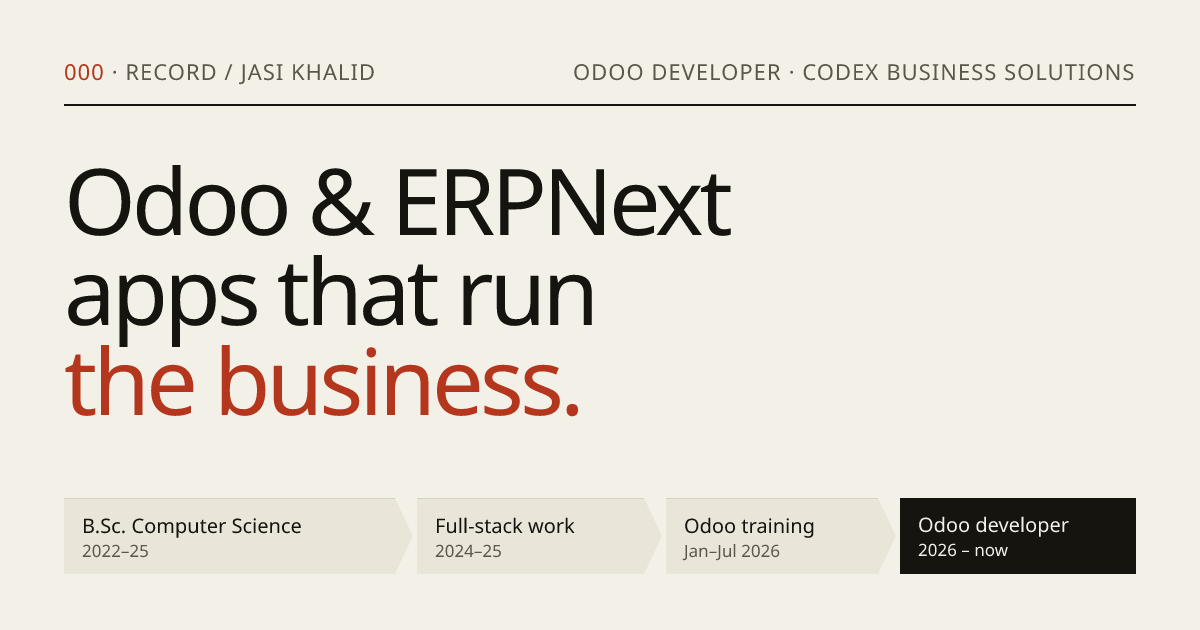
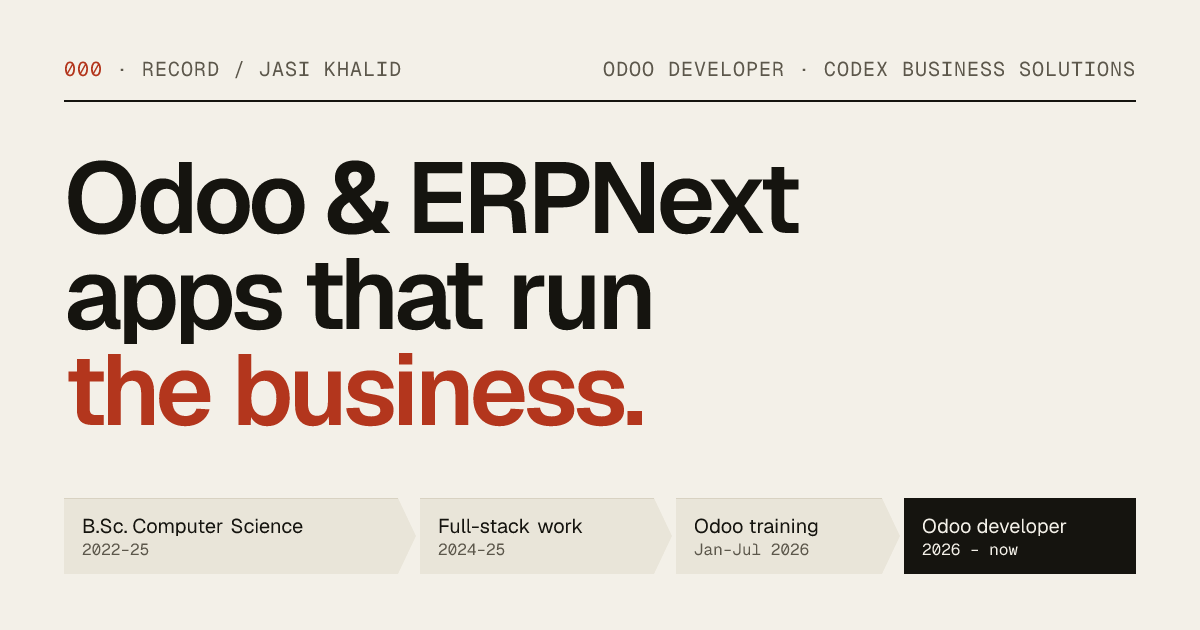
phase-7/8: hero headline full width, Geist OG image, report

diff --git a/app/opengraph-image.tsx b/app/opengraph-image.tsx
@@ -1,3 +1,5 @@
+import { readFile } from "node:fs/promises";
+import { join } from "node:path";
 import { ImageResponse } from "next/og";
 import { hero, site, stages } from "@/content/site";
 
@@ -11,18 +13,25 @@ const MUTED = "#5c574b";
 const RULE = "#d8d2c2";
 const SIGNAL = "#b3361d";
 
+const fonts = join(process.cwd(), "node_modules/geist/dist/fonts");
+
 // The site's record header and headline, drawn as a ledger page. SVG arrows because Satori has no clip-path.
-export default function OpengraphImage() {
+export default async function OpengraphImage() {
+  const [sans, sansBold, mono] = await Promise.all([
+    readFile(join(fonts, "geist-sans/Geist-Regular.ttf")),
+    readFile(join(fonts, "geist-sans/Geist-SemiBold.ttf")),
+    readFile(join(fonts, "geist-mono/GeistMono-Regular.ttf")),
+  ]);
   const last = stages.length - 1;
   return new ImageResponse(
     (
-      <div style={{ width: "100%", height: "100%", display: "flex", flexDirection: "column", padding: "56px 64px", background: PAPER, color: INK }}>
-        <div style={{ display: "flex", justifyContent: "space-between", fontSize: 22, color: MUTED, letterSpacing: 1 }}>
+      <div style={{ width: "100%", height: "100%", display: "flex", flexDirection: "column", padding: "56px 64px", background: PAPER, color: INK, fontFamily: "Geist" }}>
+        <div style={{ display: "flex", justifyContent: "space-between", fontFamily: "Geist Mono", fontSize: 20, color: MUTED, letterSpacing: 1 }}>
           <div style={{ display: "flex" }}><span style={{ color: SIGNAL }}>000</span>&nbsp;· RECORD / {site.name.toUpperCase()}</div>
           <div style={{ display: "flex" }}>{`${site.role.toUpperCase()} · ${site.employer.name.toUpperCase()}`}</div>
         </div>
         <div style={{ display: "flex", height: 2, background: INK, marginTop: 18 }} />
-        <div style={{ display: "flex", flexDirection: "column", marginTop: 48, fontSize: 92, lineHeight: 0.98, letterSpacing: -4, fontWeight: 600 }}>
+        <div style={{ display: "flex", flexDirection: "column", marginTop: 48, fontSize: 100, lineHeight: 0.96, letterSpacing: -4.5, fontWeight: 600 }}>
           {hero.headlineLines.map((line, i) => (
             <div key={line} style={{ display: "flex", color: i === hero.headlineLines.length - 1 ? SIGNAL : INK }}>{line}</div>
           ))}
@@ -34,7 +43,7 @@ export default function OpengraphImage() {
               <div key={stage.id} style={{ display: "flex", flexGrow: stage.label.length, height: 76 }}>
                 <div style={{ display: "flex", flexDirection: "column", justifyContent: "center", flexGrow: 1, padding: "0 18px", background: fill, borderTop: i === last ? "none" : `1px solid ${RULE}` }}>
                   <div style={{ fontSize: 20, whiteSpace: "nowrap", color: i === last ? PAPER : INK }}>{stage.label}</div>
-                  <div style={{ fontSize: 17, color: i === last ? PAPER : MUTED }}>{stage.period}</div>
+                  <div style={{ fontFamily: "Geist Mono", fontSize: 16, color: i === last ? PAPER : MUTED }}>{stage.period}</div>
                 </div>
                 {i < last && (
                   <svg width="22" height="76" viewBox="0 0 22 76">
@@ -47,6 +56,13 @@ export default function OpengraphImage() {
         </div>
       </div>
     ),
-    size,
+    {
+      ...size,
+      fonts: [
+        { name: "Geist", data: sans, weight: 400, style: "normal" },
+        { name: "Geist", data: sansBold, weight: 600, style: "normal" },
+        { name: "Geist Mono", data: mono, weight: 400, style: "normal" },
+      ],
+    },
   );
 }

diff --git a/components/Hero.tsx b/components/Hero.tsx
@@ -29,16 +29,17 @@ export default function Hero() {
       </div>
       <div aria-hidden="true" className="draw mt-4 h-px bg-ink" style={d(60)} />
 
-      <div className="mt-10 grid gap-12 sm:mt-14 lg:grid-cols-12 lg:gap-8">
-        <div className="lg:col-span-7 xl:col-span-8">
-          <h1 id="hero-title" className="text-display">
-            {hero.headlineLines.map((line, i) => (
-              <span key={line} className="enter-line block" style={d(i * 70)}>
-                {i === hero.headlineLines.length - 1 ? <span className="text-signal">{line}</span> : line}
-              </span>
-            ))}
-          </h1>
-          <p className="enter mt-8 max-w-[46ch] text-lead text-muted" style={d(260)}>{hero.intro}</p>
+      <h1 id="hero-title" className="mt-10 text-display sm:mt-14">
+        {hero.headlineLines.map((line, i) => (
+          <span key={line} className="enter-line block" style={d(i * 70)}>
+            {i === hero.headlineLines.length - 1 ? <span className="text-signal">{line}</span> : line}
+          </span>
+        ))}
+      </h1>
+
+      <div className="mt-10 grid items-end gap-12 lg:mt-12 lg:grid-cols-12 lg:gap-8">
+        <div className="lg:col-span-6">
+          <p className="enter max-w-[46ch] text-lead text-muted" style={d(260)}>{hero.intro}</p>
           <div className="enter mt-10 flex flex-wrap gap-3" style={d(340)}>
             <Magnetic>
               <a href="#contact" className="btn btn-primary">
@@ -53,7 +54,7 @@ export default function Hero() {
           </div>
         </div>
 
-        <figure className="enter lg:col-span-5 xl:col-span-4" style={d(200)}>
+        <figure className="enter lg:col-span-5 lg:col-start-8 xl:col-span-4 xl:col-start-9" style={d(200)}>
           <div className="relative mx-auto aspect-[4/5] w-full max-w-[22rem] lg:max-w-none">
             <HeroFigure>
               <ModuleStack className="h-full w-full" />

diff --git a/tailwind.config.ts b/tailwind.config.ts
@@ -21,7 +21,7 @@ export default {
         mono: ["var(--font-geist-mono)", "ui-monospace", "SFMono-Regular", "Menlo", "monospace"],
       },
       fontSize: {
-        display: ["clamp(2.9rem, 1.4rem + 6.6vw, 7.25rem)", { lineHeight: "0.94", letterSpacing: "-0.045em", fontWeight: "600" }],
+        display: ["clamp(2.6rem, 1.2rem + 6.6vw, 7.5rem)", { lineHeight: "0.94", letterSpacing: "-0.045em", fontWeight: "600" }],
         h2: ["clamp(2.1rem, 1.3rem + 3.2vw, 4rem)", { lineHeight: "1", letterSpacing: "-0.035em", fontWeight: "600" }],
         h3: ["clamp(1.35rem, 1.15rem + 0.8vw, 1.85rem)", { lineHeight: "1.15", letterSpacing: "-0.02em", fontWeight: "600" }],
         lead: ["clamp(1.125rem, 1.05rem + 0.35vw, 1.3rem)", { lineHeight: "1.55", letterSpacing: "-0.005em" }],

diff --git a/content/site.ts b/content/site.ts
@@ -92,7 +92,7 @@ export const experience: Entry[] = [
     place: "Tirur",
     role: "Odoo Developer",
     start: "2026",
-    // TODO: add your start month ("2026-08") and a one-line summary of public work.
+    // TODO(jasi): add your start month ("2026-08") and a one-line summary of public work.
   },
   {
     stage: "codex",

diff --git a/REPORT.md b/REPORT.md
@@ -1,0 +1,77 @@
+# Redesign report: jasikhalid.in v2
+
+Branch `redesign-v2`, local commits only. Nothing was pushed or deployed.
+
+## Concept: "System of Record"
+The old site was a pleasant bento grid in plum and pastel. It read as a template. The new site treats the portfolio as a ledger, because Jasi's work is the system of record that businesses run on.
+
+- **Ledger art direction.** Warm paper, ink, hairline rules and one vermillion "stamp" colour. Each section is an account with a code: 100 Work, 200 Stack, 300 Experience, 400 Prompting, 500 About, 600 Contact. Records use the label/value layout of an Odoo form.
+- **Type.** Geist for words and Geist Mono for codes, dates and field labels, both self-hosted. Big, tight display headline.
+- **Signature moment.** "Fig. 1" in the hero shows the modules he builds on (Fleet, Sales, Stock, Manufacturing, Accounting) as an exploded isometric stack:
+  - Every visitor first sees a zero-JS SVG. The slabs drop into place on load.
+  - On capable desktops, a three.js scene replaces it after the page is idle. The slabs assemble and tilt with the pointer.
+- **⌘K command palette.** It jumps to sections and case files, copies the email address, opens links and switches the theme. It is also the mobile menu, so there is one accessible nav component.
+- **Case-file pages** at `/work/[slug]` for all three projects: problem, what was built, technical decisions, result, stack, and links to the next case and to contact.
+- **Stack as a chart of accounts.** Each capability links to the case file where it was used, instead of a logo wall.
+- **Experience as journal entries,** grouped by career stage. The Odoo-style statusbar from the old site is kept as the career rail.
+- **Prompting section.** An interactive comparison of a one-liner and a structured brief for an Odoo task (see the TODOs).
+- **Also new:** a custom 404 ("No record matches this reference"), a new favicon, a ledger-style Open Graph image set in Geist, case pages in the sitemap, the JSON-LD `Person` schema, and light/dark themes that follow the system with an override.
+
+The reasoning is in `DESIGN.md` (three concepts, choice, tokens) and `RESEARCH.md` (13 reference sites and 7 principles).
+
+## Before vs after
+
+| | Before (a498406) | After |
+|---|---|---|
+| Home First Load JS (Next) | 110 kB | 118 kB |
+| Home JS actually loaded, gzip (`scripts/js-size.mjs`) | 109.3 kB | 121.9 kB |
+| Lazy 3D chunks, gzip (desktop only, after idle) | — | ~132 kB |
+| CSS, gzip | 6.2 kB | 6.6 kB |
+| Home HTML, gzip | 27.6 kB | 25.0 kB |
+| Routes | 1 page | home + 3 case files + 404 |
+| Lighthouse (mobile) | not measured | not measured, see below |
+
+The budget is ≤ ~170 kB initial JS excluding 3D. The result is 121.9 kB. The only new client JS is the command palette, the prompt tabs, the magnetic buttons and the 3D loader. No animation library is shipped; all motion is CSS (scroll-driven where supported) and uses only transform and opacity.
+
+### Why there is no Lighthouse score or page screenshot
+Chromium can't start inside this session's macOS sandbox (`bootstrap_check_in … Permission denied`). The brief says not to work around the sandbox, so I didn't. I measured with `next build` output and gzip sizes instead, and checked every route's status code against the production server.
+
+The scripts are ready to run on your machine:
+```bash
+npm run build && npx next start -p 3123 &
+node scripts/shots.mjs http://localhost:3123 docs/screenshots     # 4 widths × light/dark + console/overflow check
+scripts/lighthouse.sh http://localhost:3123/ logs/lighthouse.json   # mobile Lighthouse with Playwright's Chromium
+```
+
+### Images in `docs/screenshots/`
+- `og-image.png`: the generated Open Graph card.
+- `hero-figure-svg-light.png`, `hero-figure-svg-dark.png`: the hero figure, rasterised outside a browser. The labels are missing only because that renderer had no fonts.
+
+## TODO(jasi): things only you can fill in
+1. **Odoo version** for Vehicle Repair. The brief says 17 and the site says 19 (`content/site.ts`, `vehicle-repair`).
+2. **Codex role:** your start month and a one-line summary (`content/site.ts`, first `experience` entry).
+3. **Photo.** Add one to `/public` and set `site.photo`. It appears in the About section.
+4. **Prompting section.** The brief shown is an example I wrote from the Vehicle Repair description, and the title, intro and three takeaways are in your voice but are my wording. Replace them with a prompt you have really used (`content/site.ts`, `prompting`).
+5. **Case-file text.** "Problem", "decisions" and "result" were drafted from résumé bullets before this redesign (existing DRAFT note). Rewrite them in your own words, and add a GitHub link field if any code is public.
+6. **About text.** Also marked DRAFT in the existing content.
+7. **Next.js** was added to "Build the screens" because the brief lists it. Remove it if you don't want to claim it.
+8. **Mockup identifiers** (RO/0042, GD-0117, the date range) are decorative and labelled "Not real data". Swap in anything you prefer.
+
+## Known issues and next steps
+- **Visual QA hasn't happened.** It's the most important next step: run `scripts/shots.mjs`, look at 375/768/1280/1440 in both themes, and fix spacing. I reviewed the layout in code only. One real bug was caught that way (the hero headline wrapping at 1024px) and fixed.
+- **Run Lighthouse** and check LCP. The LCP element is the h1 text, which animates by transform only so it paints on the first frame.
+- **Security advisories.** `npm audit --omit=dev` flags `next` (critical), `postcss`, `sharp` and `source-map-js`. The fix moves Next to a new major, which isn't low-risk, so I didn't apply it. Do it as its own change and test.
+- **Firefox** doesn't support scroll-driven animations yet. Content there is simply shown without reveals, which is by design.
+- **Session time.** The brief allowed ~6.5 hours. This session took about 40 minutes of wall-clock time. Without a browser there was no screenshot → critique → fix loop to spend the extra time on, and more blind changes would add risk instead of quality. A polish session after viewing real screenshots will do more good.
+- **Two stray servers.** `next start` processes from this session are still on ports 3123 and 3124, because the sandbox blocked `kill`. Stop them with `lsof -ti:3123,3124 | xargs kill`.
+- `.npm-cache/`, `logs/` and Playwright output are git-ignored. The Chromium headless shell lives in `node_modules/playwright-core/.local-browsers`.
+
+## Review it locally
+```bash
+git checkout redesign-v2
+npm install
+npm run dev          # http://localhost:3000
+# production check
+npm run build && npm start
+```
+`npm run build` passes on the final commit with zero type errors and zero lint errors.

diff --git a/PROGRESS.md b/PROGRESS.md
@@ -20,3 +20,37 @@
 - **Branch name `redesign-v2`, not `redesign/v2`.** Git cannot create `redesign/v2` while a branch called `redesign` exists. The owner chose `redesign-v2` before the run.
 - **Odoo version for Vehicle Repair:** the brief says Odoo 17, the existing site says Odoo 19. Kept Odoo 19 (existing site wins per brief section 2) and added a `TODO(jasi)` to confirm.
 - **Measurement without a browser:** see the Phase 1 blocker above.
+
+## Phase 2: Research (00:39 – 00:41, background agent)
+- A subagent studied 13 sites (Awwwards, Codrops, known developer portfolios) and wrote `RESEARCH.md`. Codrops blocked direct fetches, so some entries rely on search excerpts and are marked that way. Its synthesis (ledger/blueprint art direction, one lazy 3D moment, CSS-first motion, live ERP UI sketches) matched and confirmed the chosen concept.
+
+## Phase 3: Concept and design system (00:36 – 00:40)
+- Three concepts in `DESIGN.md`. Chose "System of Record" (ledger), taking the ⌘K palette from the terminal concept and the assembled-modules 3D idea from the isometric concept.
+- Tokens: colour (all pairs checked for AA with a script), fluid type scale, spacing, radii, motion durations and easings.
+
+## Phase 4: Build (00:41 – 01:04)
+- Rewrote every section; content stays in `content/site.ts` (added skill codes and evidence, prompting copy, module list, headline line breaks, nav codes).
+- New: `/work/[slug]` case pages, `CommandPalette` (also the mobile menu), `ModuleStack` SVG, `PromptCompare` tabs, 404, OG image, favicon, sitemap entries.
+- **Blocker found and fixed:** `next/font/google` hung the build because Node can't reach Google Fonts through the sandbox proxy. Switched to the `geist` npm package (same fonts, `next/font/local`, no build-time network).
+
+## Phase 5: Motion and 3D (01:04 – 01:06)
+- Load sequence ≤ 1.2s, transform/opacity only; scroll-driven reveals and rule draws; magnetic CTAs; mockups animate on scroll.
+- three.js scene: flat unlit faces matching the SVG, DPR ≤ 1.75, renders on demand, pauses off-screen and when the tab is hidden, rethemes live. Loaded with `next/dynamic` (`ssr: false`) only on desktop with a fine pointer, ≥ 4 cores, no Save-Data, WebGL2 and no reduced motion, after `load` + idle.
+
+## Phase 6: QA (01:06 – 01:08)
+- Loaded `design:accessibility-review` and audited the code. Fixed: 3:1 input borders (1.4.11), "all fields required" note (3.3.2), finite blink/pulse animations (2.2.2). Heading order, landmarks, labels, focus-visible, dialog focus handling and tab keyboard support checked.
+- All routes return the right status codes on the production server. Sitemap, robots, OG and résumé all served.
+- Removed two copy lines that overclaimed (a reply-time promise and "what's running now").
+
+## Phase 7: Polish (01:08 – 01:15)
+- The OG image now uses Geist. Deleted dead `MobileNav.tsx`. Tagged remaining TODOs as `TODO(jasi)`.
+- Fixed the hero headline: it now spans the full width (it would have wrapped badly at 1024px in a 7-column box) and its minimum size fits 375px.
+
+## Phase 8: Report
+- `REPORT.md` written. Final build, lint and typecheck pass. The session ended at about 01:15, well short of the 6.5-hour target. The reason is in REPORT.md.
+
+## More decisions
+- No Framer Motion, GSAP or Lenis (see DESIGN.md): saves client JS, native scrolling.
+- three.js directly instead of React Three Fiber + drei, for one scene.
+- Case-file order kept as on the existing site (Garment ERP first: newest and largest scope), although the brief names Vehicle Repair and the Dashboard as strongest. All three get detail pages.
+- Next.js not upgraded: the audit fix needs a new major, which isn't low-risk.
